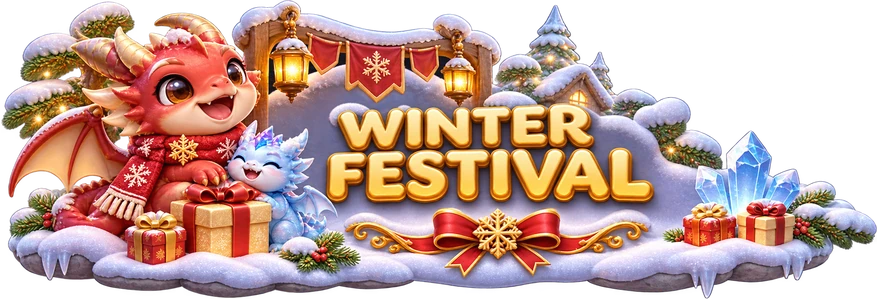
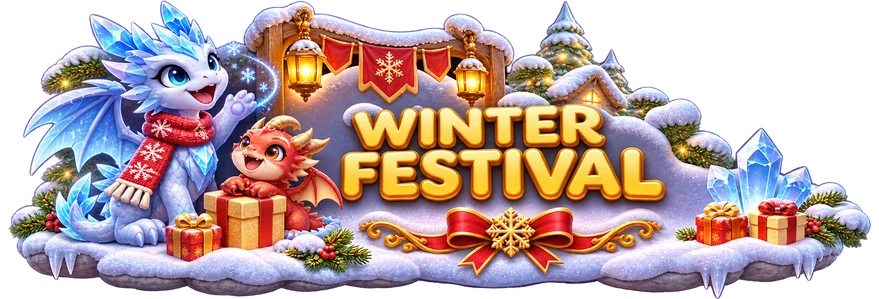
스킨 12종(성야의 망토·극광·황금 종 발자국)·12월 4주 판·전투 스킨 효과·장비 스킨 칸 12개 + 겨울 축제 빙하 드래곤 배너·룰렛
- 스킨 아이콘이 전투 뒤 도형으로 보이던 문제 수정(전투에서 아이콘 대체 그림을 만들지 않음)
- 룰렛 보라 정수 칸 '영웅 랜덤 정수'
- 장비 스킨 탭: 망토 4·발자국 8 칸, 없는 스킨은 룰렛 표시, 외형 스킨 안내
- 전투: 망토 펼침·빛·펄럭임, 발자국 빛 번짐·반짝임

diff --git a/src/scenes/GameScene.ts b/src/scenes/GameScene.ts
@@ -44,6 +44,7 @@ import { fullH, offY } from '../ui/layout';
 import { playUltCutscene, playUltSweep, preloadUlt } from '../ui/UltCutscene';
 import { getLang } from '../i18n';
 import { capeKey, makeSkinTextures, trailKey } from '../ui/skinArt';
+import { skinDef } from '../data/skins';
 
 /** 적 투사체(직선탄·추적 구체) */
 interface EnemyShot {
@@ -179,6 +180,9 @@ export class GameScene extends Phaser.Scene {
   private skinScale = 1;
   /** 스킨(2026-11-23 밤): 망토(드래곤 아래층, 함께 회전) · 발자국(움직인 거리마다 흔적) — 꾸미기 전용, 판정·능력치 없음 */
   private cape: Phaser.GameObjects.Image | null = null;
+  private capeGlow: Phaser.GameObjects.Image | null = null;
+  private capeScale = 1;
+  private trailColors: [number, number] = [0xffffff, 0xffffff];
   private trailTex: string | null = null;
   private trailLast = { x: 0, y: 0 };
   private emberAt = 0;
@@ -349,9 +353,26 @@ export class GameScene extends Phaser.Scene {
     this.skinScale = this.skin.scaleX;
     {
       const sk = Progress.load().skins;
-      makeSkinTextures(this);
+      makeSkinTextures(this, false);
       this.cape = sk.cape ? this.add.image(this.player.x, this.player.y, capeKey(sk.cape)).setDepth(9.9).setDisplaySize(SKIN_SIZE * 0.92, SKIN_SIZE * 0.92) : null;
+      this.capeGlow = null;
+      if (this.cape) {
+        // 유료 스킨답게(2026-11-25 제작자): 시작할 때 망토가 펼쳐지며 빛 고리, 전투 중 은은한 빛이 숨 쉬듯
+        this.capeScale = this.cape.scaleX;
+        this.capeGlow = this.add.image(this.cape.x, this.cape.y, this.cape.texture.key).setDepth(9.89).setScale(this.capeScale * 1.12).setBlendMode(Phaser.BlendModes.ADD).setAlpha(0.3);
+        this.cape.setScale(this.capeScale, this.capeScale * 0.15);
+        this.tweens.add({ targets: this.cape, scaleY: this.capeScale, duration: 650, delay: 150, ease: 'Back.Out' });
+        const [c1, c2] = skinDef(sk.cape)?.colors ?? [0xffffff, 0xffffff];
+        const ring = this.add.circle(this.player.x, this.player.y, 30, c2, 0).setStrokeStyle(5, c2, 1).setDepth(11).setBlendMode(Phaser.BlendModes.ADD);
+        this.tweens.add({ targets: ring, scale: 3.4, alpha: 0, duration: 700, delay: 200, ease: 'Quad.Out', onComplete: () => ring.destroy() });
+        for (let i = 0; i < 14; i++) {
+          const a = (i / 14) * Math.PI * 2;
+          const sp = this.add.circle(this.player.x, this.player.y, 4, i % 2 ? c1 : c2, 1).setDepth(11).setBlendMode(Phaser.BlendModes.ADD);
+          this.tweens.add({ targets: sp, x: this.player.x + Math.cos(a) * 90, y: this.player.y + Math.sin(a) * 90, alpha: 0, duration: 700, delay: 200, ease: 'Quad.Out', onComplete: () => sp.destroy() });
+        }
+      }
       this.trailTex = sk.trail ? trailKey(sk.trail) : null;
+      this.trailColors = skinDef(sk.trail)?.colors ?? [0xffffff, 0xffffff];
       this.trailLast = { x: this.player.x, y: this.player.y };
     }
     this.cameras.main.startFollow(this.player, true, 0.15, 0.15);
@@ -902,8 +923,15 @@ export class GameScene extends Phaser.Scene {
     const r = this.player.rotation;
     if (this.cape) {
       const back = SKIN_SIZE * 0.23;
-      this.cape.setPosition(this.player.x - Math.sin(r) * back, this.player.y + Math.cos(r) * back).setRotation(r + Math.sin(time / 110) * 0.05);
+      const moving = this.player.body ? (this.player.body as Phaser.Physics.Arcade.Body).speed > 10 : false;
+      const flap = moving ? 0.1 : 0.04; // 움직일 때 더 크게 펄럭임
+      this.cape.setPosition(this.player.x - Math.sin(r) * back, this.player.y + Math.cos(r) * back).setRotation(r + Math.sin(time / 110) * flap * 0.6);
+      if (!this.tweens.isTweening(this.cape)) this.cape.setScale(this.capeScale * (1 - Math.sin(time / 95) * flap * 0.25), this.capeScale * (1 + Math.sin(time / 130) * flap));
       this.cape.setVisible(this.skin.visible);
+      if (this.capeGlow) {
+        this.capeGlow.setPosition(this.cape.x, this.cape.y).setRotation(this.cape.rotation).setAlpha(0.18 + 0.14 * Math.sin(time / 320)).setVisible(this.skin.visible);
+        this.capeGlow.setScale(this.cape.scaleX * 1.12, this.cape.scaleY * 1.12);
+      }
     }
     if (!this.trailTex || this.mode !== 'play') return;
     const dx = this.player.x - this.trailLast.x;
@@ -911,8 +939,19 @@ export class GameScene extends Phaser.Scene {
     if (dx * dx + dy * dy < 26 * 26) return;
     this.trailLast = { x: this.player.x, y: this.player.y };
     const back = SKIN_SIZE * 0.4;
-    const fx = this.add.image(this.player.x - Math.sin(r) * back, this.player.y + Math.cos(r) * back, this.trailTex).setDepth(2).setDisplaySize(30, 30).setRotation(r);
-    this.tweens.add({ targets: fx, alpha: 0, scale: fx.scale * 0.5, duration: 700, onComplete: () => fx.destroy() });
+    const x = this.player.x - Math.sin(r) * back;
+    const y = this.player.y + Math.cos(r) * back;
+    const [c1, c2] = this.trailColors;
+    // 바닥에 번지는 빛 → 흔적 그림이 톡 튀어나왔다 작아지며 사라짐 → 작은 반짝이가 위로 떠오름
+    const glow = this.add.circle(x, y, 14, c1, 0.5).setDepth(1.9).setBlendMode(Phaser.BlendModes.ADD);
+    this.tweens.add({ targets: glow, scale: 2, alpha: 0, duration: 600, ease: 'Quad.Out', onComplete: () => glow.destroy() });
+    const fx = this.add.image(x, y, this.trailTex).setDepth(2).setDisplaySize(34, 34).setRotation(r + Phaser.Math.FloatBetween(-0.4, 0.4));
+    const s0 = fx.scale;
+    fx.setScale(s0 * 0.4);
+    this.tweens.add({ targets: fx, scale: s0, duration: 120, ease: 'Back.Out' });
+    this.tweens.add({ targets: fx, alpha: 0, scale: s0 * 0.45, delay: 200, duration: 650, onComplete: () => fx.destroy() });
+    const sp = this.add.circle(x + Phaser.Math.Between(-10, 10), y, 3, c2, 1).setDepth(2.1).setBlendMode(Phaser.BlendModes.ADD);
+    this.tweens.add({ targets: sp, y: y - Phaser.Math.Between(24, 44), alpha: 0, duration: 650, ease: 'Quad.Out', onComplete: () => sp.destroy() });
   }
 
   update(_time: number, rawDelta: number): void {

diff --git a/src/scenes/EquipScene.ts b/src/scenes/EquipScene.ts
@@ -303,30 +303,37 @@ export class EquipScene extends Phaser.Scene {
       },
     });
 
+    // 칸(2026-11-25 제작자): 망토 4·발자국 8 칸을 모두 미리 두고, 없는 스킨은 어둡게 + "룰렛" — 스킨 룰렛에서만 얻음
+    A(text(this, 360, 610, '외형 스킨(능력치 없으며, 모든 드래곤에 적용됩니다)', TYPE.tiny, COLOR.textSub, true).setOrigin(0.5));
     const row = (kind: SkinKind, y: number, label: string) => {
-      A(text(this, 40, y - 76, label, TYPE.caption, COLOR.gold, true, true).setOrigin(0, 0.5));
-      const owned = SKINS.filter((s) => s.kind === kind && p.skins.owned.includes(s.id));
+      A(text(this, 40, y - 56, label, TYPE.caption, COLOR.gold, true, true).setOrigin(0, 0.5));
+      A(text(this, 680, y - 56, '없는 스킨은 스킨 룰렛에서 얻을 수 있어요', TYPE.tiny, COLOR.textDim, true).setOrigin(1, 0.5));
       const cur = kind === 'cape' ? p.skins.cape : p.skins.trail;
-      const cells: (string | null)[] = [null, ...owned.map((s) => s.id)];
-      cells.slice(0, 5).forEach((id, i) => {
-        const x = 96 + i * 132;
+      const cells: (string | null)[] = [null, ...SKINS.filter((s) => s.kind === kind).map((s) => s.id)];
+      cells.forEach((id, i) => {
+        const x = 84 + (i % 5) * 138;
+        const yy = y + Math.floor(i / 5) * 112;
         const on = cur === id;
-        if (on) A(this.add.rectangle(x, y, 122, 122, COLOR.cta, 0.95).setStrokeStyle(4, COLOR.outline));
-        const box = A(slotBox(this, x, y, 106, { icon: id ? skinIconKey(id) : undefined }));
-        box.add(text(this, 0, 40, id ? skinDef(id)!.name : '없음', 13, COLOR.text, true, true).setOrigin(0.5));
-        if (on) box.add(badge(this, -30, -40, '장착', COLOR.teal));
+        const have = !id || p.skins.owned.includes(id);
+        if (on) A(this.add.rectangle(x, yy, 108, 108, COLOR.cta, 0.95).setStrokeStyle(4, COLOR.outline));
+        const box = A(slotBox(this, x, yy, 94, { icon: id ? skinIconKey(id) : undefined }));
+        box.add(text(this, 0, 36, id ? skinDef(id)!.name : '없음', 12, have ? COLOR.text : COLOR.textDim, true, true).setOrigin(0.5));
+        if (on) box.add(badge(this, -26, -36, '장착', COLOR.teal));
+        if (!have) {
+          box.setAlpha(0.45);
+          box.add(badge(this, 0, -6, '룰렛', 0x6a2bbf));
+          return;
+        }
         box.setInteractive({ useHandCursor: true }).on('pointerdown', () => {
           const r = equipSkin(Progress.load(), kind, id);
           if (r.ok) Progress.save(r.progress);
           this.refresh();
         });
       });
-      if (!owned.length) A(text(this, 228, y, '스킨 룰렛에서 얻을 수 있어요', TYPE.tiny, COLOR.textDim, true).setOrigin(0, 0.5));
     };
-    row('cape', 720, '망토');
-    row('trail', 900, '발자국');
-    A(text(this, 360, 1000, '스킨은 꾸미기 전용(능력치 없음) · 모든 드래곤에 함께 적용', TYPE.tiny, COLOR.textSub, true).setOrigin(0.5));
-    if (purchases.available || devMode()) this.B(button(this, 360, 1068, 340, 72, '스킨 룰렛 가기', () => this.scene.start('skins'), { kind: 'magic', size: TYPE.caption }));
+    row('cape', 700, '망토');
+    row('trail', 850, '발자국');
+    if (purchases.available || devMode()) this.B(button(this, 360, 1094, 340, 52, '스킨 룰렛 가기', () => this.scene.start('skins'), { kind: 'magic', size: TYPE.caption }));
   }
 
   private act(r: { ok: boolean; reason?: string; cost?: number }, done?: string): void {

diff --git a/src/data/skins.ts b/src/data/skins.ts
@@ -10,7 +10,7 @@
  */
 
 export type SkinKind = 'cape' | 'trail';
-export type TrailShape = 'flame' | 'frost' | 'star' | 'petal' | 'spark' | 'shadow';
+export type TrailShape = 'flame' | 'frost' | 'star' | 'petal' | 'spark' | 'shadow' | 'aurora' | 'bell';
 
 export interface SkinDef {
   id: string;
@@ -27,6 +27,8 @@ export const SKINS: SkinDef[] = [
   { id: 'cape-ember-king', kind: 'cape', name: '불꽃왕의 망토', text: '진홍 비단에 금실 불꽃 무늬', colors: [0xb71c1c, 0xffc107] },
   { id: 'cape-frost-crown', kind: 'cape', name: '서리 왕관 망토', text: '눈꽃 결정이 반짝이는 하늘빛 망토', colors: [0x4fc3f7, 0xe1f5fe] },
   { id: 'cape-starlight', kind: 'cape', name: '별빛 망토', text: '밤하늘처럼 별이 흐르는 망토', colors: [0x311b92, 0xb388ff] },
+  // 4번째(2026-11-25 제작자 요청 "12월 4주 미리", Higgsfield): 크리스마스 주간용
+  { id: 'cape-holy-night', kind: 'cape', name: '성야의 망토', text: '눈꽃 털 장식과 금빛 별이 수놓인 초록 벨벳 망토', colors: [0x1b5e20, 0xffd54f] },
   // ── 발자국(흔적) ──
   { id: 'trail-flame', kind: 'trail', name: '불꽃 발자국', text: '지나간 자리에 작은 불꽃이 남는다', colors: [0xff7043, 0xffd54f], trail: 'flame' },
   { id: 'trail-frost', kind: 'trail', name: '서리 발자국', text: '지나간 자리에 눈꽃이 피었다 녹는다', colors: [0x81d4fa, 0xffffff], trail: 'frost' },
@@ -34,6 +36,8 @@ export const SKINS: SkinDef[] = [
   { id: 'trail-petal', kind: 'trail', name: '꽃잎 발자국', text: '분홍 꽃잎이 흩어진다', colors: [0xf48fb1, 0xfce4ec], trail: 'petal' },
   { id: 'trail-spark', kind: 'trail', name: '번개 발자국', text: '푸른 전기 불꽃이 튄다', colors: [0x40c4ff, 0xe1f5fe], trail: 'spark' },
   { id: 'trail-shadow', kind: 'trail', name: '그림자 발자국', text: '보랏빛 연기가 남았다 사라진다', colors: [0x7e57c2, 0x311b92], trail: 'shadow' },
+  { id: 'trail-aurora', kind: 'trail', name: '극광 발자국', text: '초록·보랏빛 오로라가 물결친다', colors: [0x69f0ae, 0xb388ff], trail: 'aurora' },
+  { id: 'trail-bell', kind: 'trail', name: '황금 종 발자국', text: '반짝이는 금빛 종이 딸랑인다', colors: [0xffca28, 0xe53935], trail: 'bell' },
 ];
 
 export const skinDef = (id: string | null | undefined): SkinDef | undefined => SKINS.find((s) => s.id === id);
@@ -76,6 +80,7 @@ export const SKIN_ROULETTE = {
     { cape: 'cape-ember-king', trails: ['trail-flame', 'trail-star'] },
     { cape: 'cape-frost-crown', trails: ['trail-frost', 'trail-spark'] },
     { cape: 'cape-starlight', trails: ['trail-petal', 'trail-shadow'] },
+    { cape: 'cape-holy-night', trails: ['trail-aurora', 'trail-bell'] },
   ] as { cape: string; trails: [string, string] }[],
   /** 첫 판이 시작하는 주의 월요일(KST). 이 주가 rotations[0] */
   epochMonday: '2026-11-23',

diff --git a/src/ui/art.ts b/src/ui/art.ts
@@ -175,8 +175,8 @@ export const ART_FILES: Record<string, string> = {
   ...Object.fromEntries(['rare', 'epic', 'legendary'].map((r) => [`aura-equip-${r}`, `equip/aura-equip-${r}.webp`])),
   ...Object.fromEntries(['common', 'rare', 'epic', 'legendary'].map((r) => [`equip-orb-${r}`, `equip/equip-orb-${r}.webp`])),
   // 22차분(2026-11-24, scripts/process_art_batch22.py): 스킨 망토 3·발자국 6·아이콘 9 — 키가 있으면 skinArt.ts 도형 그림 대신 씀
-  ...Object.fromEntries(['cape-ember-king', 'cape-frost-crown', 'cape-starlight'].flatMap((id) => [[`skin-cape-${id}`, `skin/skin-cape-${id}.webp`], [`skin-icon-${id}`, `skin/skin-icon-${id}.webp`]])),
-  ...Object.fromEntries(['flame', 'frost', 'star', 'petal', 'spark', 'shadow'].flatMap((t) => [[`skin-trail-${t}`, `skin/skin-trail-${t}.webp`], [`skin-icon-trail-${t}`, `skin/skin-icon-trail-${t}.webp`]])),
+  ...Object.fromEntries(['cape-ember-king', 'cape-frost-crown', 'cape-starlight', 'cape-holy-night'].flatMap((id) => [[`skin-cape-${id}`, `skin/skin-cape-${id}.webp`], [`skin-icon-${id}`, `skin/skin-icon-${id}.webp`]])),
+  ...Object.fromEntries(['flame', 'frost', 'star', 'petal', 'spark', 'shadow', 'aurora', 'bell'].flatMap((t) => [[`skin-trail-${t}`, `skin/skin-trail-${t}.webp`], [`skin-icon-trail-${t}`, `skin/skin-icon-trail-${t}.webp`]])),
   // 21차분(2026-11-24, scripts/process_art_batch21.py): 진화·적중 효과 6장 256px(BasicAttack.flashArt)
   ...Object.fromEntries(['fx-aurora-split', 'fx-mirror-bounce', 'fx-void-burst', 'fx-sand-pillar', 'fx-bloom-burst', 'fx-heal-flower'].map((k) => [k, `fx/${k}.webp`])),
   // 20차분(2026-11-24, scripts/process_art_batch20.py): 탄 수정본(아래 같은 파일 덮어씀) + 신규 9종 전용 스킬 전투 연출 512px(Signature.ts SIGART)

diff --git a/src/ui/skinArt.ts b/src/ui/skinArt.ts
@@ -8,10 +8,12 @@ import { SKINS, skinDef, type SkinDef, type TrailShape } from '../data/skins';
  * - `skin-cape-<id>`: 전투 중 드래곤 아래층에 붙는 망토(위에서 본 모양, 머리 쪽이 위, 160×160)
  * - `skin-trail-<모양>`: 발자국 효과 한 개(48×48)
  */
-export function makeSkinTextures(scene: Phaser.Scene): void {
+/** icons=false: 전투 장면용 — 아이콘은 전투에서 안 씀. 전투 중 내린 진짜 아이콘 키를 도형 그림이 차지하면
+ * 로비·룰렛으로 돌아가도 진짜 그림이 다시 안 읽혀 도형으로 보이던 문제(2026-11-25) 방지 */
+export function makeSkinTextures(scene: Phaser.Scene, icons = true): void {
   const g = scene.add.graphics();
   const make = (key: string, w: number, h: number, draw: () => void) => {
-    if (scene.textures.exists(key)) return;
+    if (scene.textures.exists(key) || (!icons && key.startsWith('skin-icon-'))) return;
     g.clear();
     draw();
     g.generateTexture(key, w, h);
@@ -88,6 +90,14 @@ function trail(g: Phaser.GameObjects.Graphics, shape: TrailShape, [a, b]: [numbe
     case 'shadow':
       g.fillStyle(b, 0.55).fillCircle(x, y, 14 * k);
       g.fillStyle(a, 0.75).fillCircle(x - 4 * k, y - 3 * k, 9 * k).fillCircle(x + 6 * k, y + 4 * k, 7 * k);
+      break;
+    case 'aurora':
+      g.fillStyle(a, 0.7).fillEllipse(x - 3 * k, y, 10 * k, 26 * k);
+      g.fillStyle(b, 0.7).fillEllipse(x + 5 * k, y + 2 * k, 8 * k, 22 * k);
+      break;
+    case 'bell':
+      g.fillStyle(a, 1).fillCircle(x, y - 2 * k, 10 * k).fillRect(x - 12 * k, y + 2 * k, 24 * k, 6 * k);
+      g.fillStyle(b, 1).fillCircle(x, y + 9 * k, 3 * k);
       break;
   }
 }

diff --git a/src/scenes/EventScene.ts b/src/scenes/EventScene.ts
@@ -161,12 +161,16 @@ export class EventScene extends Phaser.Scene {
       a0 = a1;
     });
     this.A(this.add.triangle(cx, cy - R - 6, -14, -18, 14, -18, 0, 6, 0xffffff));
+    // 가운데: 축제 드래곤(빙하 드래곤) 초상 — 정수 칸의 주인공(2026-11-25 제작자)
+    const pk = `portrait-${WINTER_DRAGON}`;
+    this.A(this.add.circle(cx, cy, 52, 0x0e1a2a, 1).setStrokeStyle(4, 0xffd54f));
+    if (this.textures.exists(pk)) this.A(this.add.image(cx, cy - 2, pk).setDisplaySize(96, 96));
     const groups = this.oddsGroups();
     const rowH = 44;
     groups.forEach(({ r, slots }, i) => {
       const ly = cy - ((groups.length - 1) * rowH) / 2 + i * rowH;
       this.A(this.add.rectangle(420, ly, 22, 22, this.colorOf(r), 0.95).setStrokeStyle(2, 0x0e1a2a));
-      const icon = r.rubies ? 'ui-ruby' : r.fragments ? 'ui-fragment' : '';
+      const icon = r.rubies ? 'ui-ruby' : r.fragments ? 'ui-fragment' : r.dragonEssence ? `portrait-${WINTER_DRAGON}` : '';
       let tx = 442;
       if (icon && this.textures.exists(icon)) {
         this.A(this.add.image(tx, ly, icon).setDisplaySize(28, 28).setOrigin(0, 0.5));

diff --git a/src/scenes/SkinScene.ts b/src/scenes/SkinScene.ts
@@ -187,7 +187,7 @@ export class SkinScene extends Phaser.Scene {
     else if (slot.equipTickets) key = 'ui-ticket-equip';
     else if (slot.epicEssence) key = 'ui-essence';
     if (key && this.textures.exists(key)) this.A(this.add.image(x, y - (skin ? 4 : 12), key).setDisplaySize(iconSize, iconSize));
-    const amount = slot.rubies ? `×${slot.rubies.toLocaleString()}` : slot.gold ? `×${slot.gold.toLocaleString()}` : slot.dragonTickets ? `×${slot.dragonTickets}` : slot.equipTickets ? `×${slot.equipTickets}` : slot.epicEssence ? '영웅' : '';
+    const amount = slot.rubies ? `×${slot.rubies.toLocaleString()}` : slot.gold ? `×${slot.gold.toLocaleString()}` : slot.dragonTickets ? `×${slot.dragonTickets}` : slot.equipTickets ? `×${slot.equipTickets}` : slot.epicEssence ? '영웅 랜덤 정수' : '';
     if (amount) this.A(text(this, x + size / 2 - 12, y + size / 2 - 14, amount, slot.center ? 30 : 24, COLOR.text, true, true).setOrigin(1, 1));
     if (skin) {
       this.A(text(this, x, y + size / 2 - 18, skin.name, slot.center ? 24 : 17, COLOR.text, true, true).setOrigin(0.5));

diff --git a/tests/skins.test.ts b/tests/skins.test.ts
@@ -57,8 +57,8 @@ describe('스킨 룰렛', () => {
     expect(q.skins.board).toMatchObject({ week: weekKey(nextWeek), picked: [] });
     expect(q.skins.keys).toBe(2);
     expect(boardSlots(q, nextWeek)[0].skin).toBe('cape-frost-crown');
-    // 3주 뒤 다시 첫 묶음 → 이미 가진 망토 칸은 루비로
-    const later = nextWeek + 14 * 86_400_000;
+    // 4주 뒤(묶음 4개, 11/25 성야 묶음 추가) 다시 첫 묶음 → 이미 가진 망토 칸은 루비로
+    const later = nextWeek + 21 * 86_400_000;
     expect(rotationIndex(later)).toBe(0);
     expect(boardSlots(q, later)[0]).toMatchObject({ duplicate: true, rubies: SKIN_ROULETTE.duplicateRubies });
     expect(boardSlots(q, later)[0].skin).toBeUndefined();

diff --git a/src/systems/Skins.ts b/src/systems/Skins.ts
@@ -146,7 +146,7 @@ export function slotLabel(s: SkinSlot & { duplicate?: boolean }): string {
   if (s.gold) return `골드 ${s.gold.toLocaleString()}`;
   if (s.dragonTickets) return `드래곤 상자 개봉권 ${s.dragonTickets}장`;
   if (s.equipTickets) return `장비 상자 개봉권 ${s.equipTickets}장`;
-  if (s.epicEssence) return '영웅 드래곤 정수';
+  if (s.epicEssence) return '영웅 랜덤 정수';
   return s.id;
 }
 

diff --git a/scripts/process_art_skins_dec.py b/scripts/process_art_skins_dec.py
@@ -1,0 +1,51 @@
+"""스킨 4번째 묶음(2026-11-25 밤, Higgsfield GPT Image 2.6, 투명 배경): 성야의 망토 · 극광 발자국 · 황금 종 발자국.
+처리 방식은 scripts/process_art_batch22.py와 같다(망토 256 · 발자국 128 · 아이콘 256 = 둥근 보라 바탕 + 그림).
+원본 art-src/skins/<아이디>.png 는 메인 저장소 폴더 — worktree에서 돌릴 때는 ART_SRC 환경변수로 지정."""
+import os
+from pathlib import Path
+from PIL import Image, ImageDraw
+
+ROOT = Path(__file__).resolve().parent.parent
+SRC = Path(os.environ.get('ART_SRC', ROOT / 'art-src')) / 'skins'
+OUT = ROOT / 'public' / 'art' / 'skin'
+CAPES = ['cape-holy-night']
+TRAILS = {'trail-aurora': 'aurora', 'trail-bell': 'bell'}
+
+
+def fit_square(im, size, pad):
+    im = im.convert('RGBA')
+    bbox = im.getchannel('A').point(lambda a: 255 if a > 12 else 0).getbbox()
+    if bbox:
+        im = im.crop(bbox)
+    side = int(max(im.size) / (1 - 2 * pad))
+    canvas = Image.new('RGBA', (side, side), (0, 0, 0, 0))
+    canvas.alpha_composite(im, ((side - im.width) // 2, (side - im.height) // 2))
+    return canvas.resize((size, size), Image.LANCZOS)
+
+
+def badge(size=256):
+    b = Image.new('RGBA', (size, size), (0, 0, 0, 0))
+    ImageDraw.Draw(b).rounded_rectangle((6, 6, size - 7, size - 7), radius=40, fill=(29, 23, 51, 255))
+    return b
+
+
+def save(im, name):
+    out = OUT / f'{name}.webp'
+    im.save(out, 'WEBP', quality=90, method=6)
+    print(out.name, out.stat().st_size)
+
+
+for c in CAPES:
+    src = Image.open(SRC / f'{c}.png')
+    save(fit_square(src, 256, 0.01), f'skin-cape-{c}')
+    icon = badge()
+    icon.alpha_composite(fit_square(src, 216, 0.02), (20, 20))
+    save(icon, f'skin-icon-{c}')
+
+for t, shape in TRAILS.items():
+    src = fit_square(Image.open(SRC / f'{t}.png'), 128, 0.04)
+    save(src, f'skin-trail-{shape}')
+    icon = badge()
+    for (x, y, s) in [(34, 150, 72), (90, 94, 86), (150, 34, 100)]:
+        icon.alpha_composite(src.resize((s, s), Image.LANCZOS), (x, y))
+    save(icon, f'skin-icon-{t}')

diff --git a/scripts/process_art_en.py b/scripts/process_art_en.py
@@ -1,6 +1,8 @@
 """영어 그림 2장(2026-11-25, Higgsfield GPT Image 2.6 편집, 투명 배경으로 받음).
 art-src/en/hf-logo-en-1.png          → public/art/logo-en.webp          (800×254, 한글 로고와 같은 크기)
 art-src/en/hf-event-winter-en-1.png  → public/art/event-winter-en.webp  (879×299, 겨울 축제 배너와 같은 크기)
+(2026-11-25 밤) 축제 대표가 빙하 드래곤으로 바뀌어 한·영 배너 모두 빙하 드래곤이 주인공인 판으로 다시 만듦:
+art-src/en/hf-event-winter-ko-glacier.png → public/art/event-winter.webp · hf-event-winter-en-glacier.png → event-winter-en.webp
 투명 여백을 자르고 비율을 지킨 채 칸 안에 가운데 맞춤(남는 곳은 투명). 다시 돌려도 됨.
 원본 경로(art-src/)는 메인 저장소 폴더 — worktree에서 돌릴 때는 ART_SRC 환경변수로 지정."""
 import os
@@ -13,7 +15,8 @@ OUT = ROOT / 'public' / 'art'
 
 JOBS = [
     ('hf-logo-en-1.png', 'logo-en.webp', (800, 254)),
-    ('hf-event-winter-en-1.png', 'event-winter-en.webp', (879, 299)),
+    ('hf-event-winter-en-glacier.png', 'event-winter-en.webp', (879, 299)),
+    ('hf-event-winter-ko-glacier.png', 'event-winter.webp', (879, 299)),
 ]
 
 

diff --git a/docs/SKINS.md b/docs/SKINS.md
@@ -105,3 +105,12 @@
 나머지(10단계 시드 1): 레드 346 · 옐로 413 · 그린 378 · 화이트 387 · 블랙 372 · 워터 349 · 블룸 273 · 크림슨 477.
 - **결론**: 오로라는 아케인 수준으로 내려옴. 하울·샌드는 조금 나아짐. **스틸은 보스 처치가 여전히 느림(320~343초)** — 되돌아오는 원반이 보스 한 마리에 약한 구조라 공격력보다 방식 문제일 수 있음. 같은 드래곤도 판마다 275~496초로 흔들려 **봇만으로 더 세밀하게 맞추기 어려움 → 사람 플레이(특히 스틸·하울·샌드 10단계 보스)로 확인**이 다음 일.
 - 기존 10종 값은 기획서 확정 값이라 건드리지 않음.
+
+## 10. 12월 4주 준비 · 칸 12개 · 전투 효과 · 빙하 드래곤 축제 (2026-11-25 밤, 제작자 요청)
+- **스킨 12종 = 망토 4 · 발자국 8**: 4번째 묶음 **성야의 망토**(초록 벨벳·흰 털·금빛 별) + **극광 발자국**·**황금 종 발자국**을 Higgsfield(GPT Image 2.6, 기존 망토·별 그림을 참고 그림으로)로 만듦. 원본 `art-src/skins/`, 가공 `scripts/process_art_skins_dec.py`(22차분과 같은 규격).
+- **주간 판 4개가 차례로**(`SKIN_ROULETTE.rotations`): 11/23 불꽃왕 → 11/30 서리 왕관 → 12/7 별빛 → **12/14 성야**(크리스마스 전 주) → 12/21 불꽃왕 → 12/28 서리 왕관. 12월 4주(12/7·14·21·28)에 4묶음이 모두 한 번씩 나옴. 새 묶음은 배열에 한 줄. **서버 추첨(`functions/`)이 같은 규칙 파일을 쓰므로 함수 다시 배포 필요.**
+- **장비 화면 스킨 칸**: 망토 4·발자국 8 칸을 모두 미리 보여 줌. 가진 것만 장착, 없는 것은 어둡게 + "룰렛" 표시, 줄마다 "없는 스킨은 스킨 룰렛에서 얻을 수 있어요". 위에 "외형 스킨(능력치 없으며, 모든 드래곤에 적용됩니다)".
+- **룰렛 보라 정수 칸**: '영웅' → **'영웅 랜덤 정수'**(결과 창 문구도).
+- **전투에서 멋있게**: 시작할 때 망토가 아래로 펼쳐지며 빛 고리·반짝이 14개, 망토 위에 같은 그림을 더하기로 겹친 은은한 빛이 숨 쉬듯, 움직일 때 더 크게 펄럭임. 발자국은 바닥에 빛이 번지고 → 그림이 톡 튀어나왔다 작아지며 사라지고 → 작은 반짝이가 떠오름(스킨 색 2개 사용).
+- **고친 문제(AI 실수)**: 11/25 "전투 중 그림 내리기"가 스킨 아이콘을 내린 뒤 전투 장면이 도형 대체 그림을 같은 키로 만들어, 로비·룰렛으로 돌아와도 진짜 그림이 다시 안 읽히고 도형으로 보였음(제작자 화면). 전투에서는 아이콘 대체 그림을 만들지 않게(`makeSkinTextures(scene, false)`).
+- **겨울 축제**: 배너(한·영)를 빙하 드래곤이 주인공인 그림으로 다시 만듦(기존 배너 + 빙하 초상 참고, 글자 그대로). 룰렛 판 가운데에 빙하 드래곤 초상, 정수 줄에도 초상.
